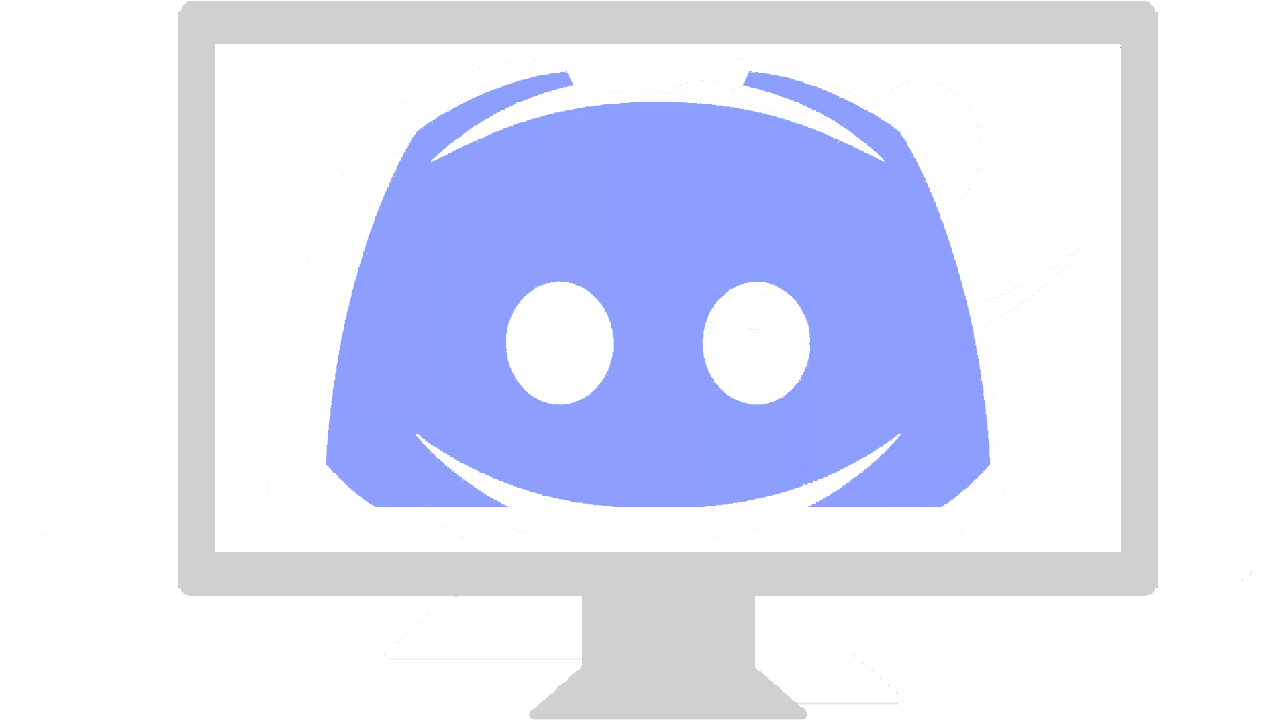
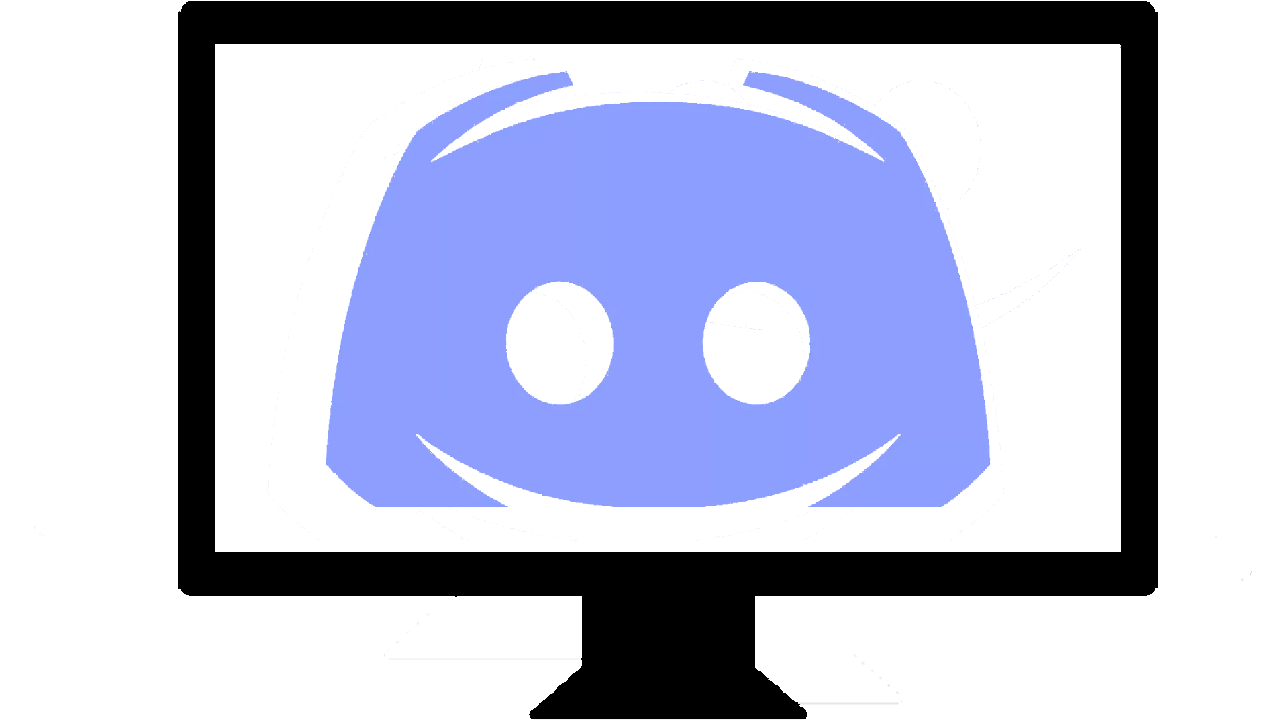
updated site images to black borders

Changed region(s): [[0.125, 0.0, 0.9062, 1.0]]

diff --git a/index.html b/index.html
@@ -14,7 +14,7 @@
 		<div class="row align-items-center justify-content-center h-100">
 			<div class="col-6 align-items-center" id="main">
 				<img src="assets/img/facepic.png" alt="John Guyan's sexy face" id="myface">
-				<p class="intro-text"><strong>John Guyan</strong></p>
+				<p class="intro-name"><strong>John Guyan</strong></p>
 				<p class="intro-text">Web Developer/Software Engineer</p>
 				<p class="intro-text">Scotland</p>
 				<p>

diff --git a/assets/css/style.css b/assets/css/style.css
@@ -20,7 +20,7 @@ html {
 }
 
 #intro-space {
-  background-color: #09337a;
+  background-color: #23448c;
 }
 
 #myface {
@@ -80,4 +80,14 @@ a:hover {
 
 .intro-text {
 	font-size:20px;
+}
+
+.intro-name {
+	font-size: 40px;
+}
+
+.btn-secondary {
+	background-color:white;
+	color: black;
+	border: solid 2px black;
 }
